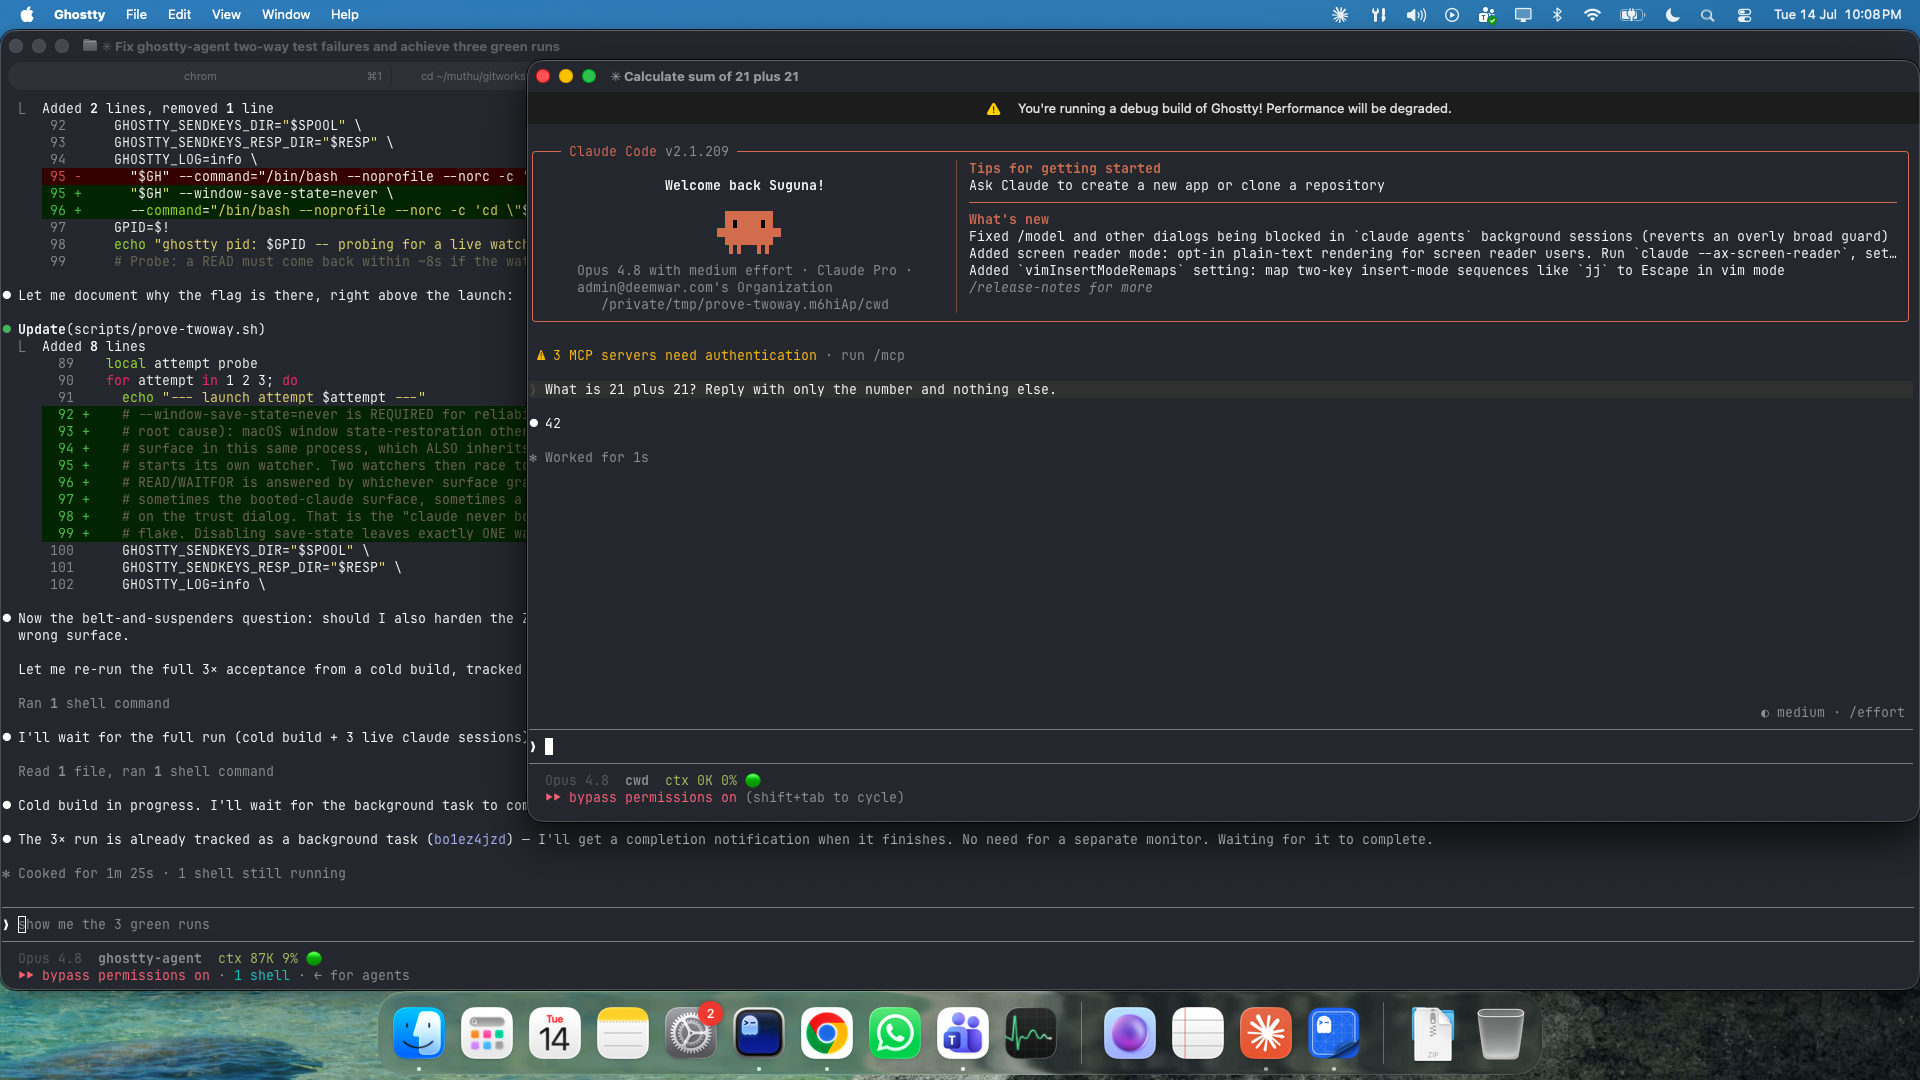
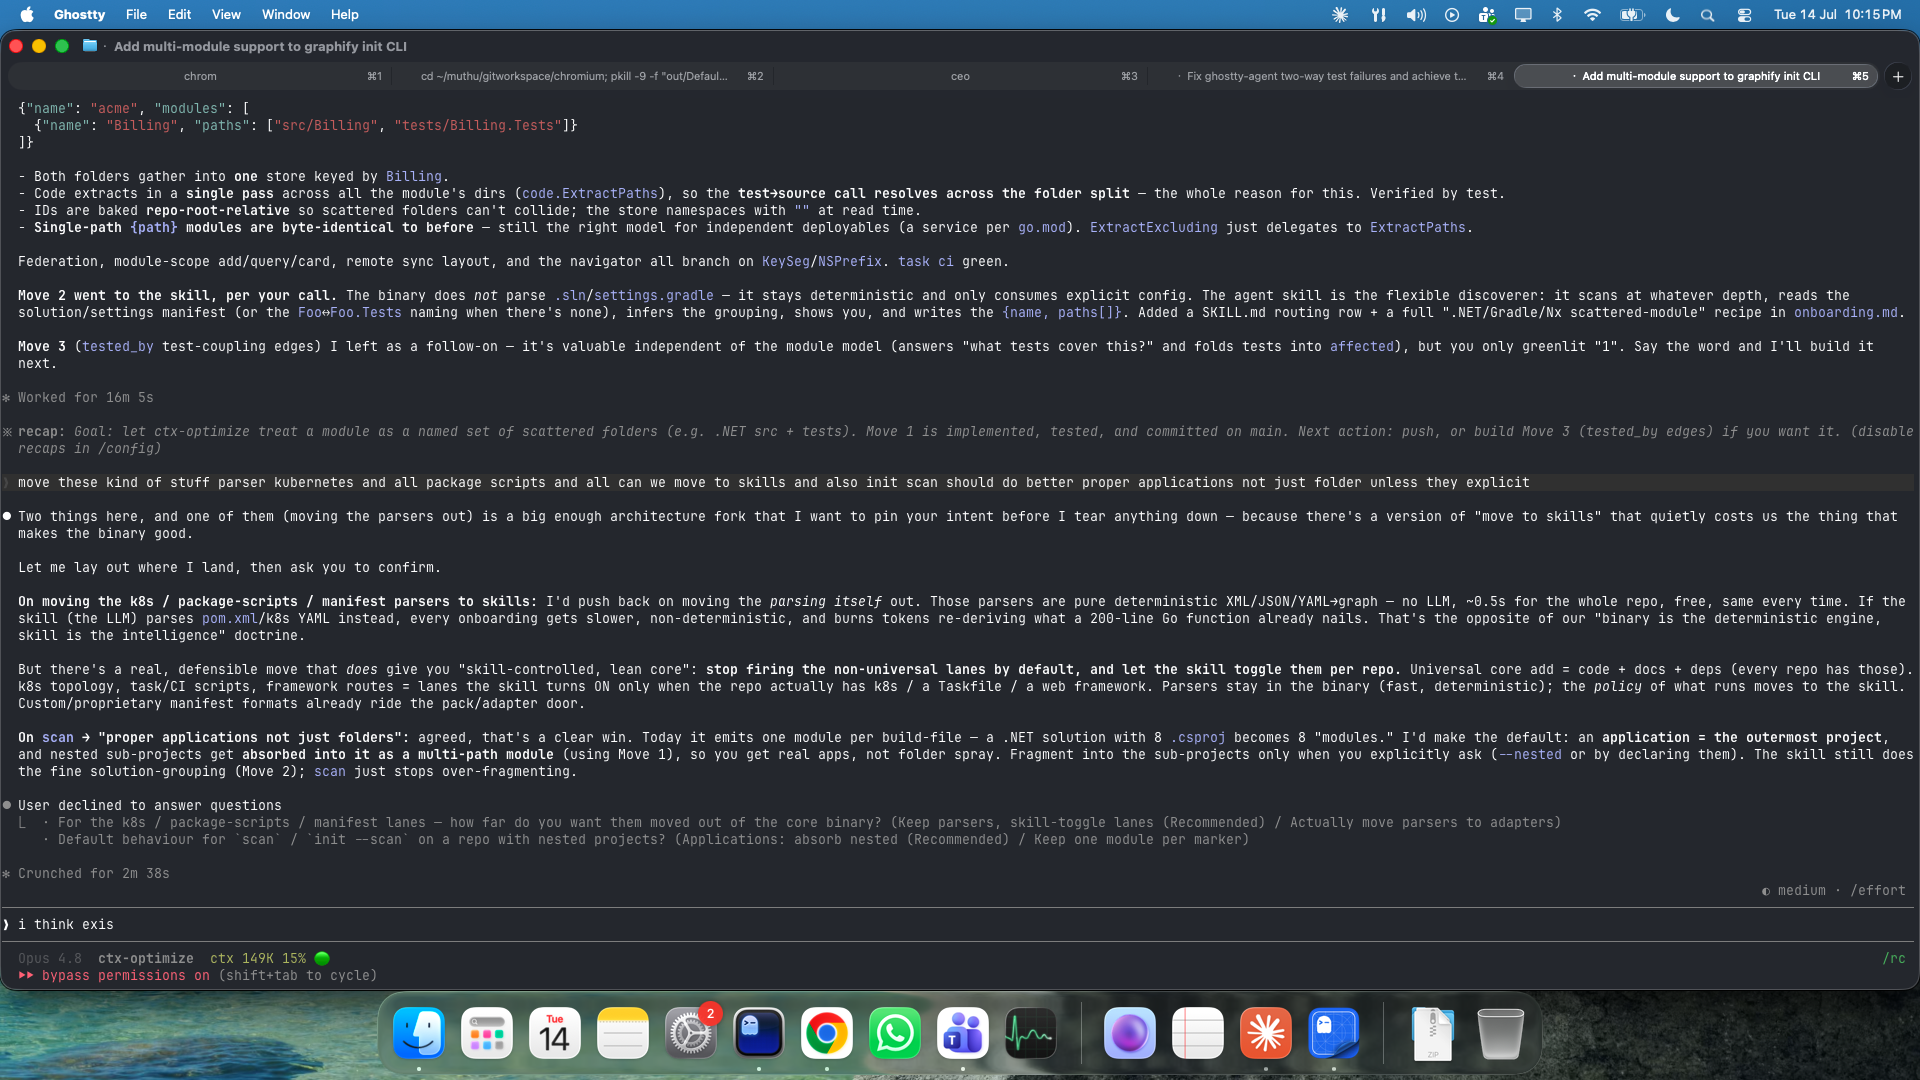
Move prove-twoway harness into the ghostty-sendkeys skill
Everything needed to prove/drive the two-way flow now ships inside the skill
(.claude/skills/ghostty-sendkeys/scripts/) instead of a separate repo scripts/
dir -- no loose scripts to hunt for. Both scripts self-locate the repo root via
git rev-parse (fall back to relative), and the 3x wrapper calls its sibling
directly. SKILL.md documents the bundled harness. Smoke-tested from the new
path: PROVE-TWOWAY PASS (claude answered 42).

diff --git a/.claude/skills/ghostty-sendkeys/SKILL.md b/.claude/skills/ghostty-sendkeys/SKILL.md
@@ -256,9 +256,9 @@ prefer them over blind sleeps.
    ```
 
    `--command` replaces the login shell; `exec claude` makes Claude the
-   foreground PTY leader so every keystroke reaches it. See
-   `scripts/prove-twoway.sh` for the full, proven flow (trust dialog → boot →
-   prompt → waitfor "42").
+   foreground PTY leader so every keystroke reaches it. See the bundled
+   `scripts/prove-twoway.sh` (next to this skill) for the full, proven flow
+   (trust dialog → boot → prompt → waitfor "42").
 
 3. **Launch with `--window-save-state=never` or reads will hit the wrong
    surface (the #1 flake).** macOS window state-restoration reopens a *second*
@@ -281,6 +281,29 @@ Note: bare `type`/`key` only **stage** (v1); `send` and all v2 verbs publish
 immediately. `screenshot` is macOS-only and needs Screen Recording permission
 (else it falls back to full-screen / may be blank) — for a terminal, `read` /
 `gettext --all` is the authoritative visual state.
+
+## Bundled acceptance harness (ships with this skill)
+
+Everything needed to prove the two-way flow lives **inside this skill** — no
+separate repo scripts to hunt for. Both are self-locating (they resolve the repo
+root via `git rev-parse`), so run them from anywhere:
+
+```sh
+SK=.claude/skills/ghostty-sendkeys/scripts
+
+bash "$SK/prove-twoway.sh"      # cold build (unless SKIP_BUILD=1), one full run:
+                                #   launch+probe → trust → boot → prompt → waitfor "42"
+bash "$SK/prove-twoway-3x.sh"   # the acceptance bar: one cold `zig build`, then
+                                #   prove-twoway.sh must pass 3x CONSECUTIVELY,
+                                #   each driving a real claude session to answer 42
+```
+
+`prove-twoway.sh` already applies every reliability fix in this doc:
+build-first + stale-binary guard, clean-env `--command` launch,
+`--window-save-state=never` (single surface), tolerant JSON reads, and boot
+`waitfor` retry. It exits 0 on PASS. Run it from a **real GUI (Aqua) session** —
+it fails loudly if launched from a detached/headless context with no WindowServer.
+Use these as the template for any "drive claude reliably" automation.
 
 ## Step 5 — clean up
 
